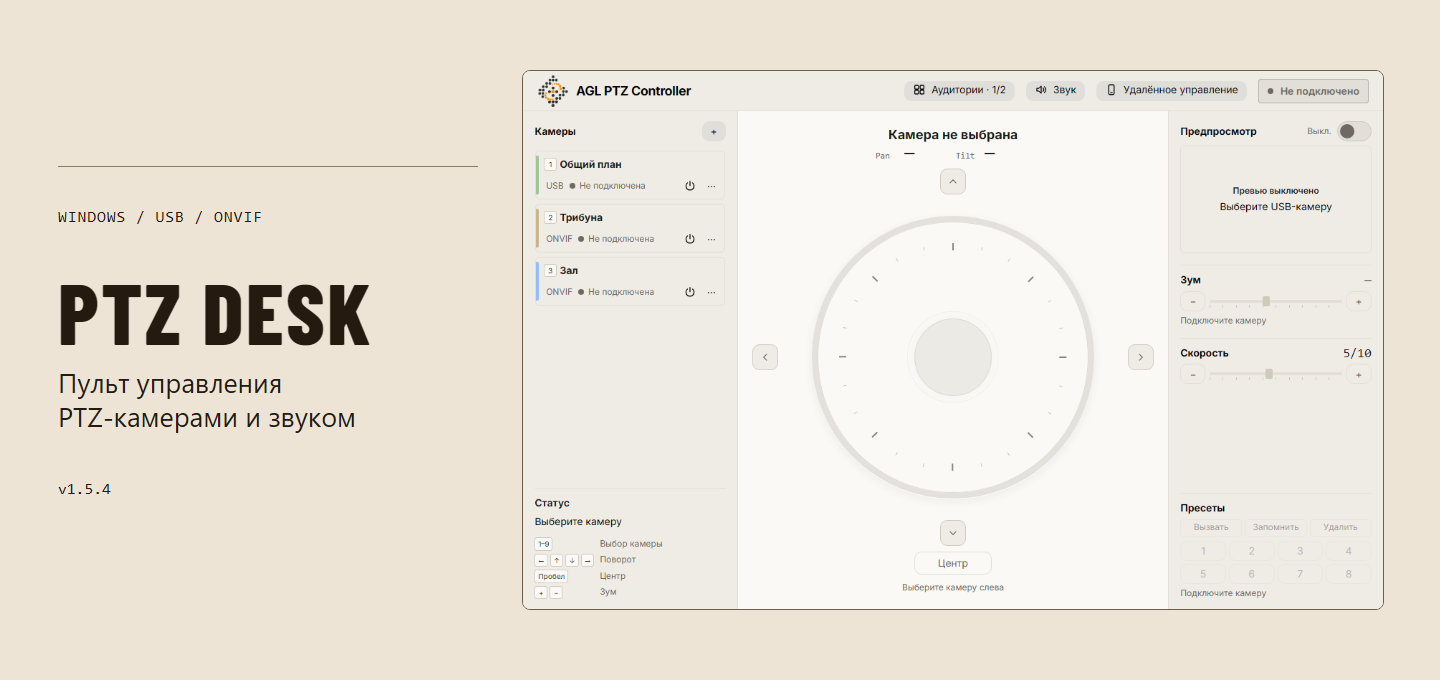
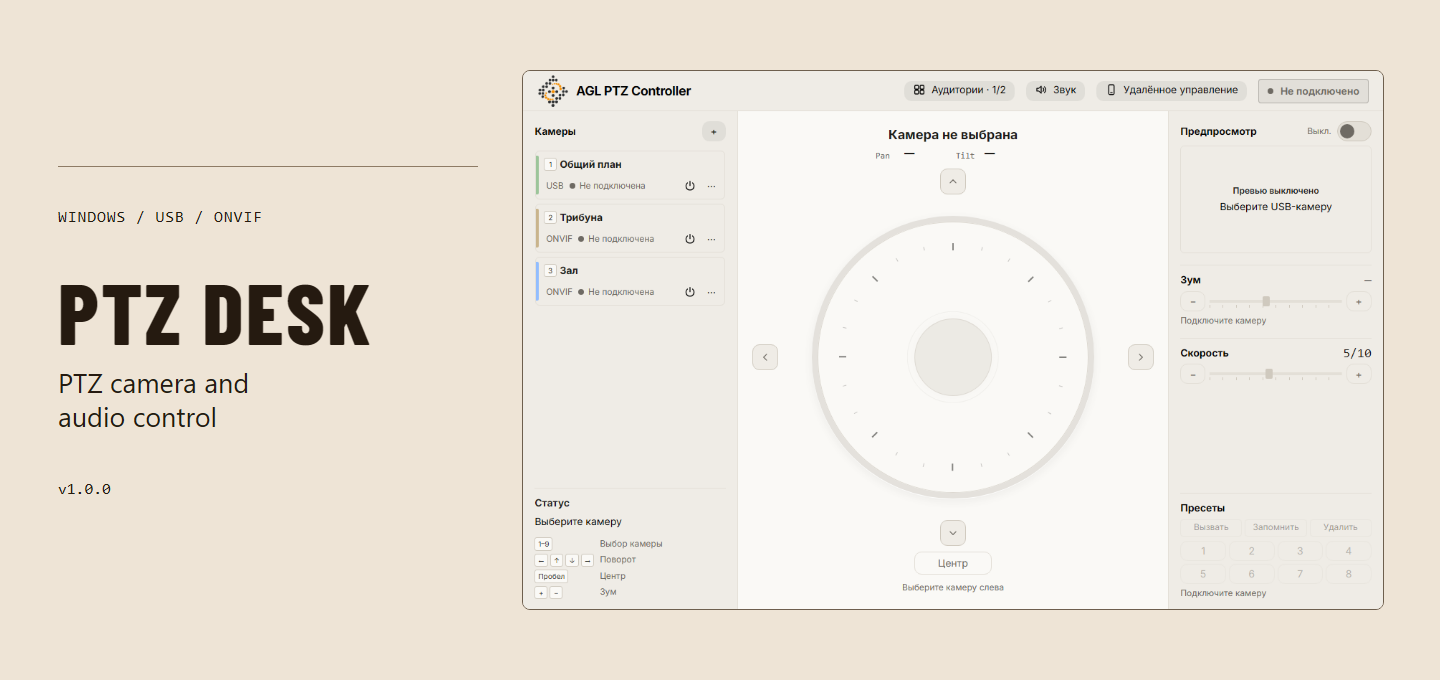
Present PTZ Desk in English and set initial release version

Changed region(s): [[0.0312, 0.5559, 0.25, 0.6485], [0.0625, 0.7103, 0.0938, 0.7412]]

diff --git a/README.md b/README.md
@@ -1,30 +1,39 @@
-<img src="assets/wordmark.png" width="360" alt="PTZ Desk">
+<p align="center">
+  <img src="assets/wordmark.png" width="360" alt="PTZ Desk">
+</p>
 
-# PTZ Desk
+<h1 align="center">PTZ Desk</h1>
 
-Пульт оператора для Windows. Переключайте USB- и ONVIF-камеры из одного списка, управляйте поворотом, наклоном и зумом. Подключите телефон по локальной сети для управления камерой и звуком.
+<p align="center">A Windows operator console for PTZ cameras and audio.</p>
 
-[Быстрый старт](#быстрый-старт) · [Скриншоты](#скриншоты)
+<p align="center">
+  <a href="https://github.com/StokeleyDev/ptz-desk/releases/latest">Download for Windows</a> ·
+  <a href="#quick-start">Quick start</a> ·
+  <a href="#screenshots">Screenshots</a>
+</p>
 
-![Пульт PTZ Desk](assets/cover.png)
+![PTZ Desk Windows operator console](assets/cover.png)
 
-## Скриншоты
+## Features
 
-![Пульт Windows со списком камер и джойстиком](assets/desktop.png)
+- Switch between USB and ONVIF cameras and control pan, tilt, and zoom.
+- Pair a phone over a trusted local network to control cameras and adjust speaker and microphone levels.
+- Check for stable releases using the update button in the desktop app.
 
-| Камера на телефоне | Звук на телефоне |
+## Quick start
+
+1. Run **PTZ-Desk-Setup-x64.exe**, or extract **PTZ-Desk-Portable-x64.zip** and launch the app from its Portable folder.
+2. If prompted, install Microsoft Edge WebView2 Runtime. The portable package includes a helper in Dependencies.
+3. Add a camera. To pair your phone, open Remote Control in the app and scan the QR code. The current app interface is shown in Russian.
+
+To uninstall the installed edition, open **Windows Settings → Apps → Installed apps** and select PTZ Desk.
+
+## Screenshots
+
+![Windows console showing the camera list and joystick](assets/desktop.png)
+
+| Mobile camera controls | Mobile audio controls |
 | :---: | :---: |
-| <img src="assets/phone-camera.png" width="260" alt="Управление PTZ с телефона"> | <img src="assets/phone-audio.png" width="260" alt="Управление динамиком и микрофоном с телефона"> |
+| <img src="assets/phone-camera.png" width="260" alt="PTZ controls on a phone"> | <img src="assets/phone-audio.png" width="260" alt="Speaker and microphone controls on a phone"> |
 
-Скриншоты сделаны в деморежиме версии 1.5.4.
-
-## Быстрый старт
-
-1. Распакуйте portable-сборку для Windows и запустите приложение из папки Portable.
-2. Если появится сообщение о WebView2, запустите установщик из папки Dependencies.
-3. Добавьте USB- или ONVIF-камеру. Для управления с телефона откройте «Удалённое управление» и отсканируйте QR-код на доверенной локальной сети.
-
-
-[Скачать PTZ Desk для Windows](https://github.com/StokeleyDev/ptz-desk/releases/latest)
-
-Для обычной установки запустите PTZ-Desk-Setup-x64.exe. Удаление доступно в «Параметры → Приложения». Portable ZIP содержит приложение и установщик WebView2. Кнопка ↻ проверяет стабильные обновления GitHub Releases.
+Screenshots show the application in demo mode.
